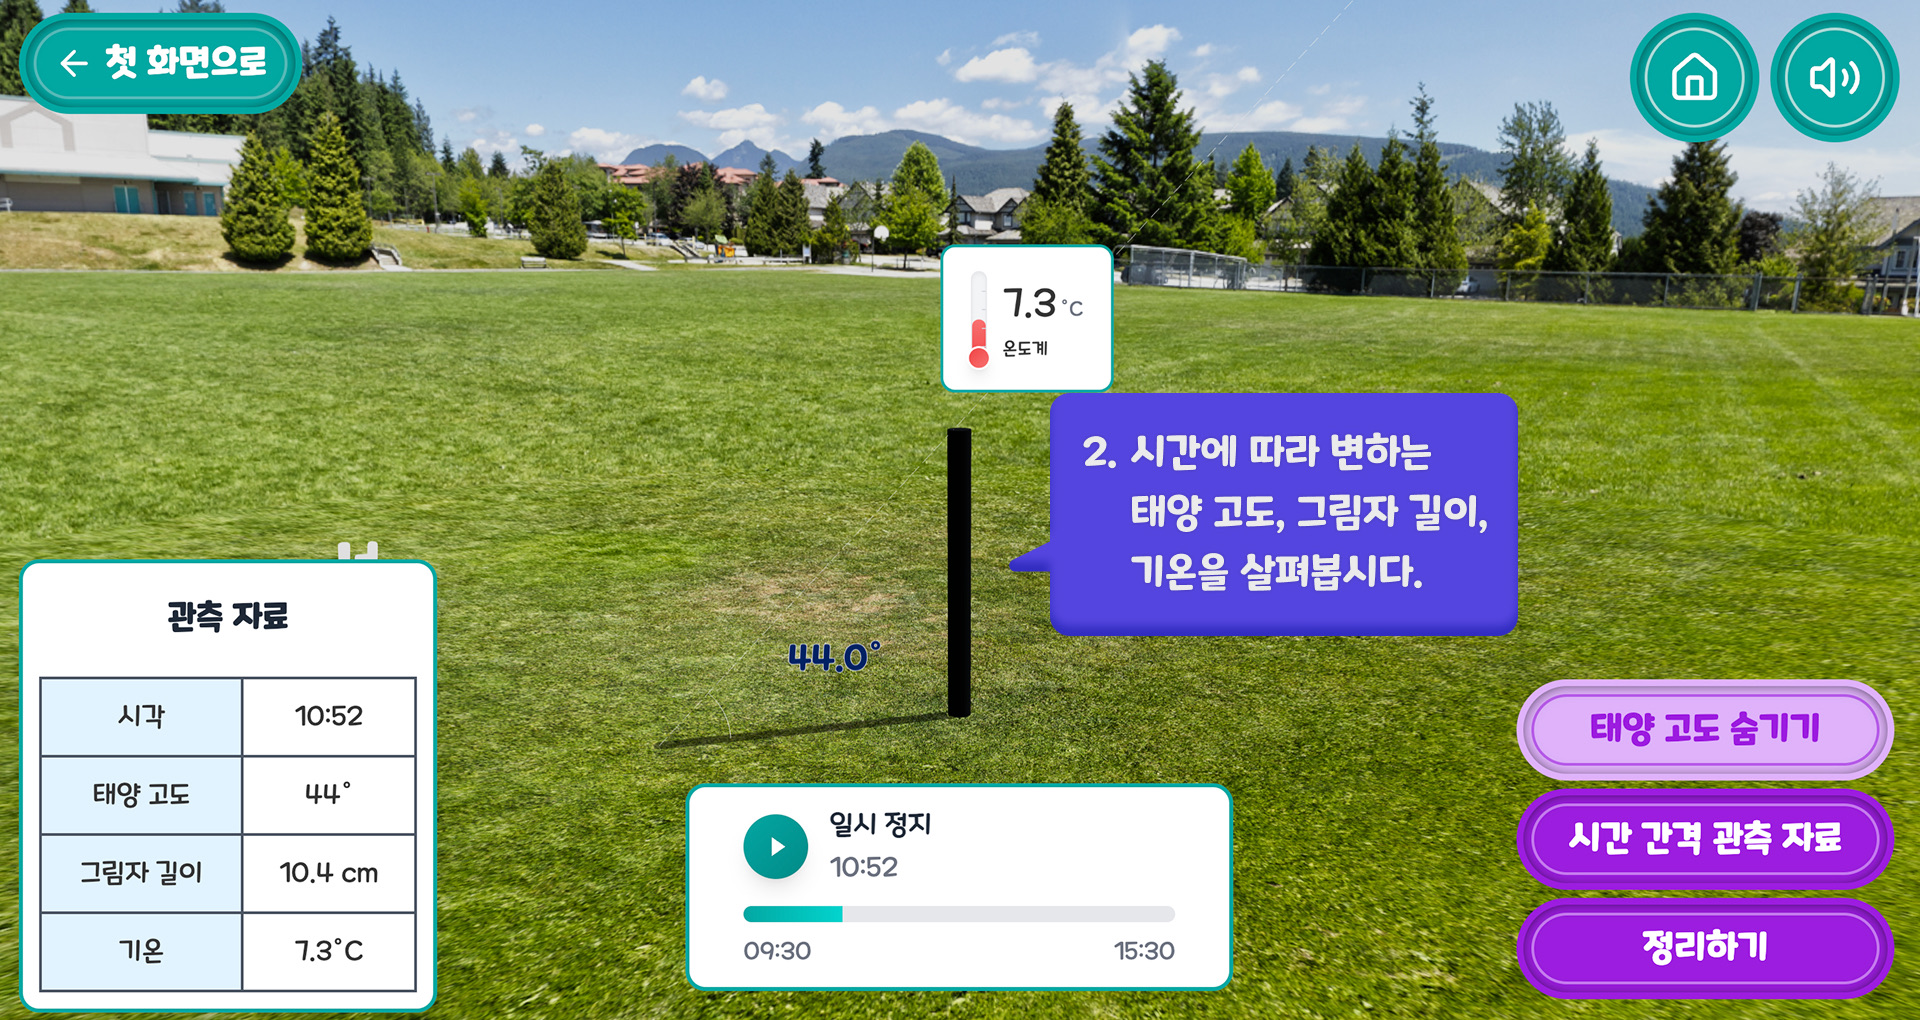
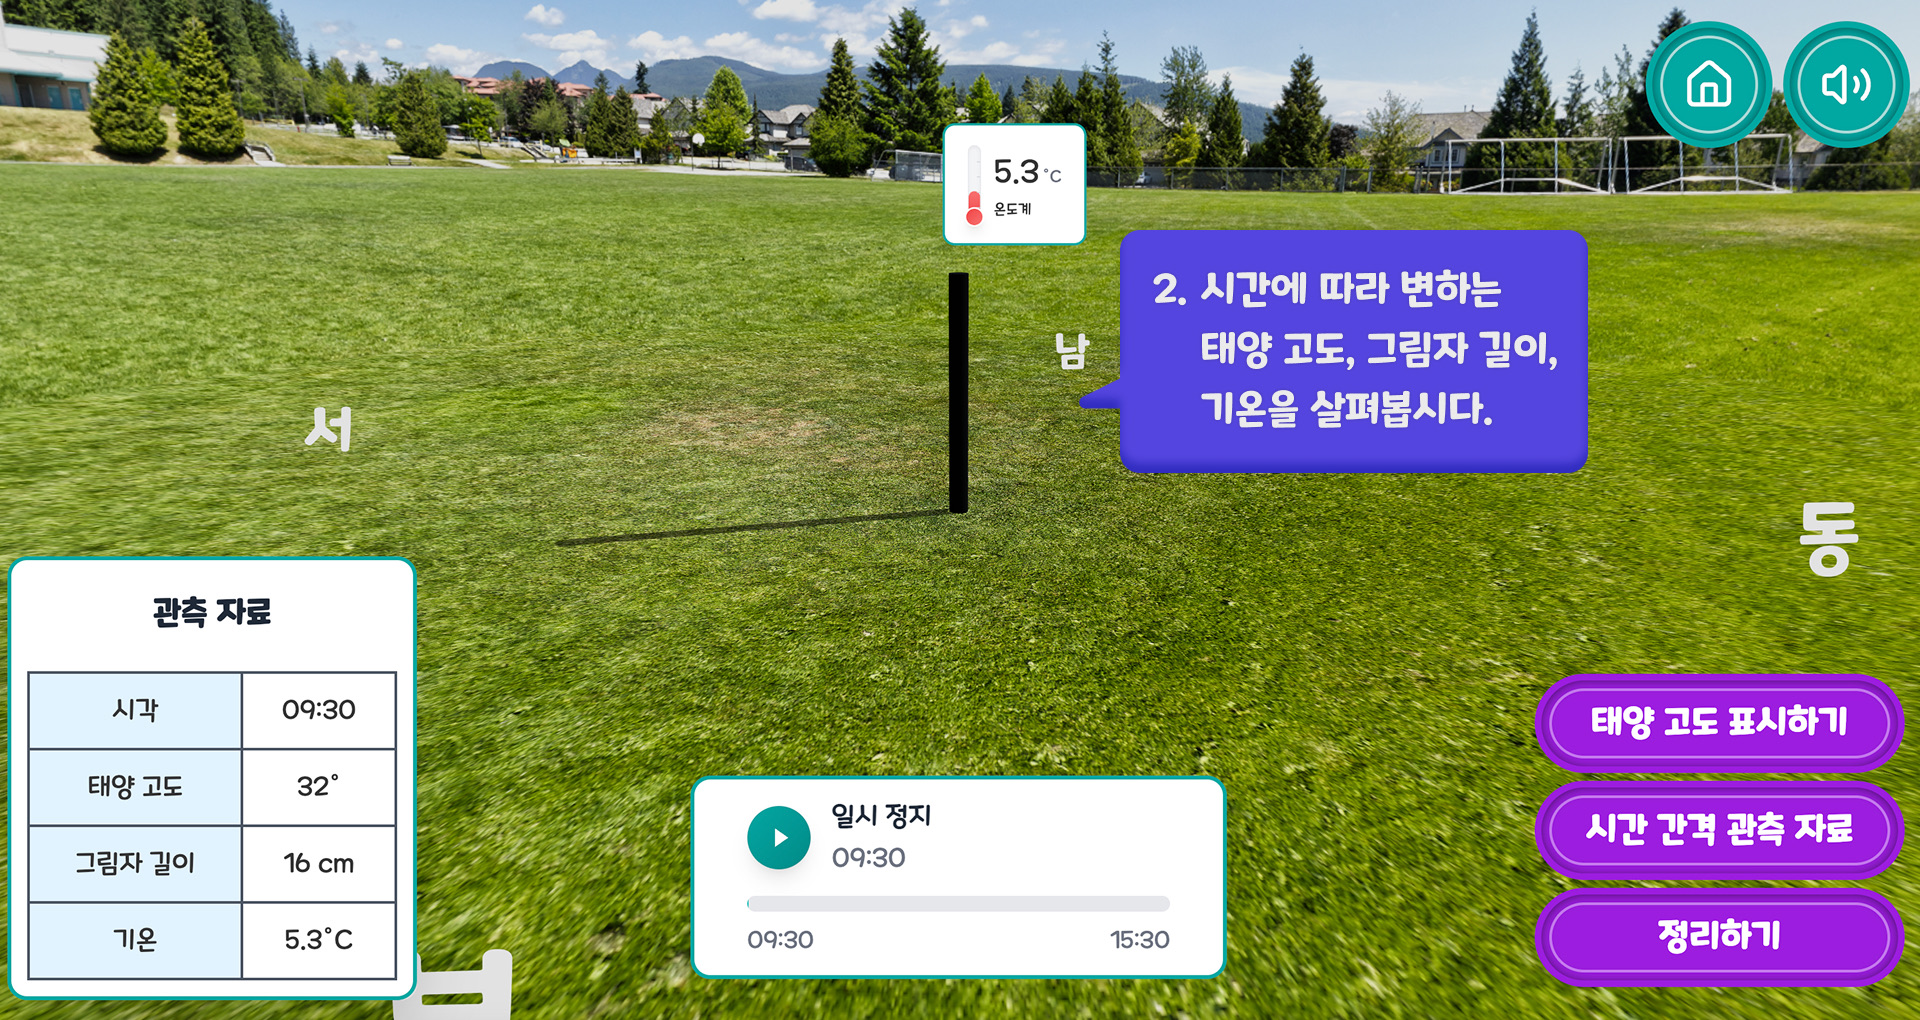
update 6-1-4

diff --git a/client/src/pages/6-2-1.tsx b/client/src/pages/6-2-1.tsx
@@ -249,31 +249,6 @@ export default function Page() {
         innerCircleVisible={true}
       />
 
-      {/* 뒤로가기 버튼 */}
-      {!showIntro && (
-        <AnimatePresence>
-          <motion.div
-            initial={{ opacity: 0 }}
-            animate={{ opacity: 1 }}
-            exit={{ opacity: 0 }}
-            transition={{ duration: 0.5, ease: 'easeInOut' }}
-            className='absolute top-4 left-4 z-10'>
-            <CrayonTextButton
-              ariaLabel='첫 화면으로 돌아가기'
-              text='첫 화면으로'
-              icon='arrow-left'
-              iconPosition='left'
-              iconSize={30}
-              bg={lightTheme.start.bg}
-              color={lightTheme.start.border}
-              textcolor={lightTheme.start.text}
-              onClick={handleBackToIntro}
-              innerCircleVisible={false}
-            />
-          </motion.div>
-        </AnimatePresence>
-      )}
-
       {/* 메인 3D 씬 */}
       <div className='flex-1'>
         <Scene shadows camera={{ position: CAMERA_CONFIG.position, fov: 50 }}>
